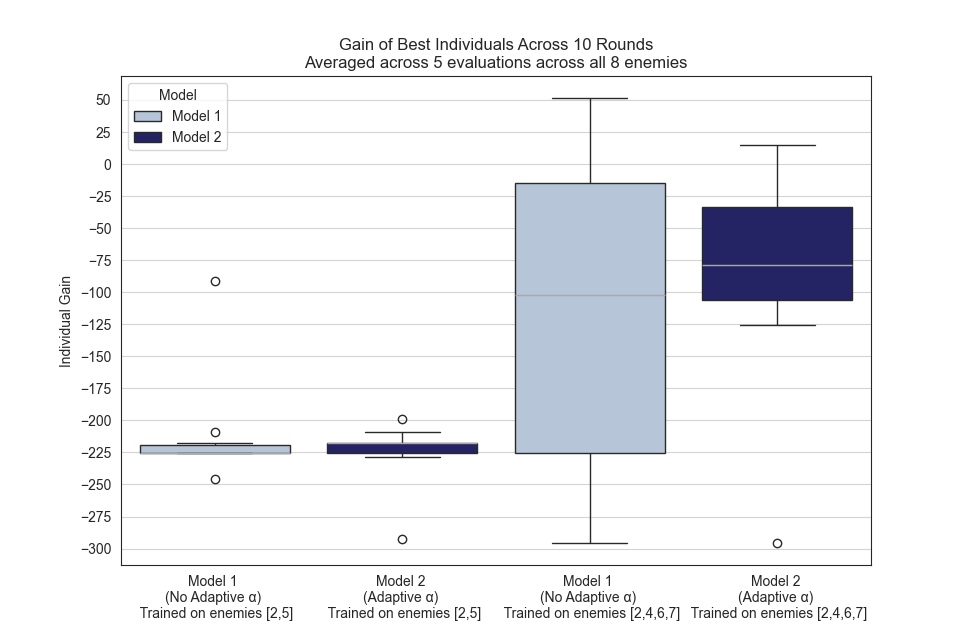
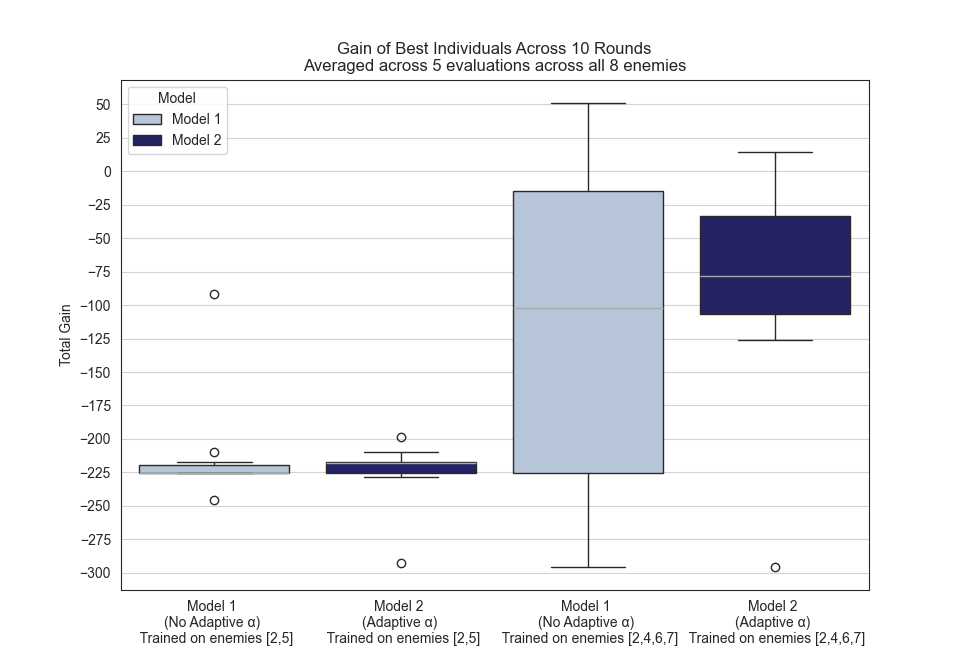
Fixed boxplot

diff --git a/graphs.py b/graphs.py
@@ -267,16 +267,16 @@ def boxplot():
     plt.grid(color='lightgrey')
     plt.xticks(fontsize=10)
     plt.yticks(np.arange(-800,800,25))
-    plt.ylabel('Individual Gain')
+    plt.ylabel('Total Gain')
     plt.xlabel('',color="white")
     plt.title('Gain of Best Individuals Across 10 Rounds\nAveraged across 5 evaluations across all 8 enemies')
     sns.boxplot(x=df['Experiment'], y=df['Gain'],hue=df['Model'],palette=list(models_colours.values()), medianprops=dict(color="darkgrey"))
     plt.show()
 
-diversity()
+#diversity()
 #lineplots()
 #eval_data()
-#boxplot()
+boxplot()
 
 #table()
 #eval_table_data()
